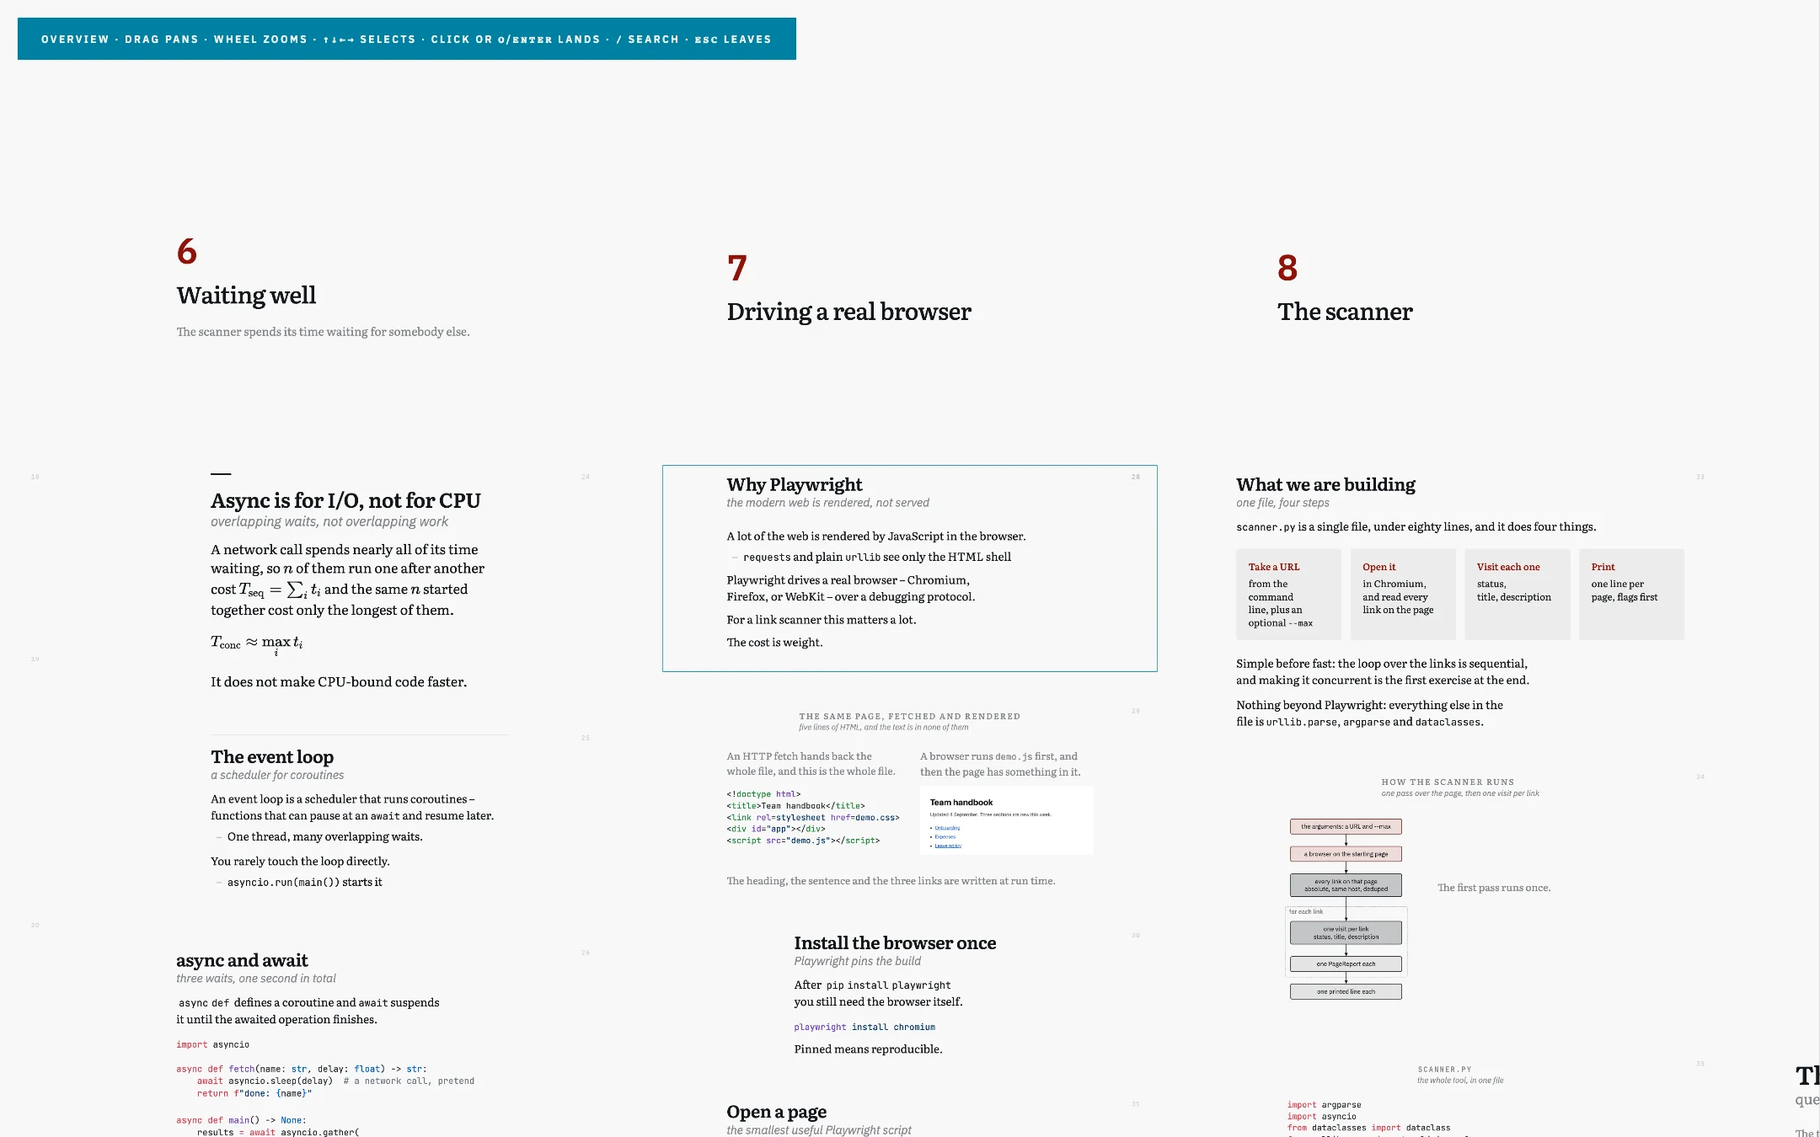
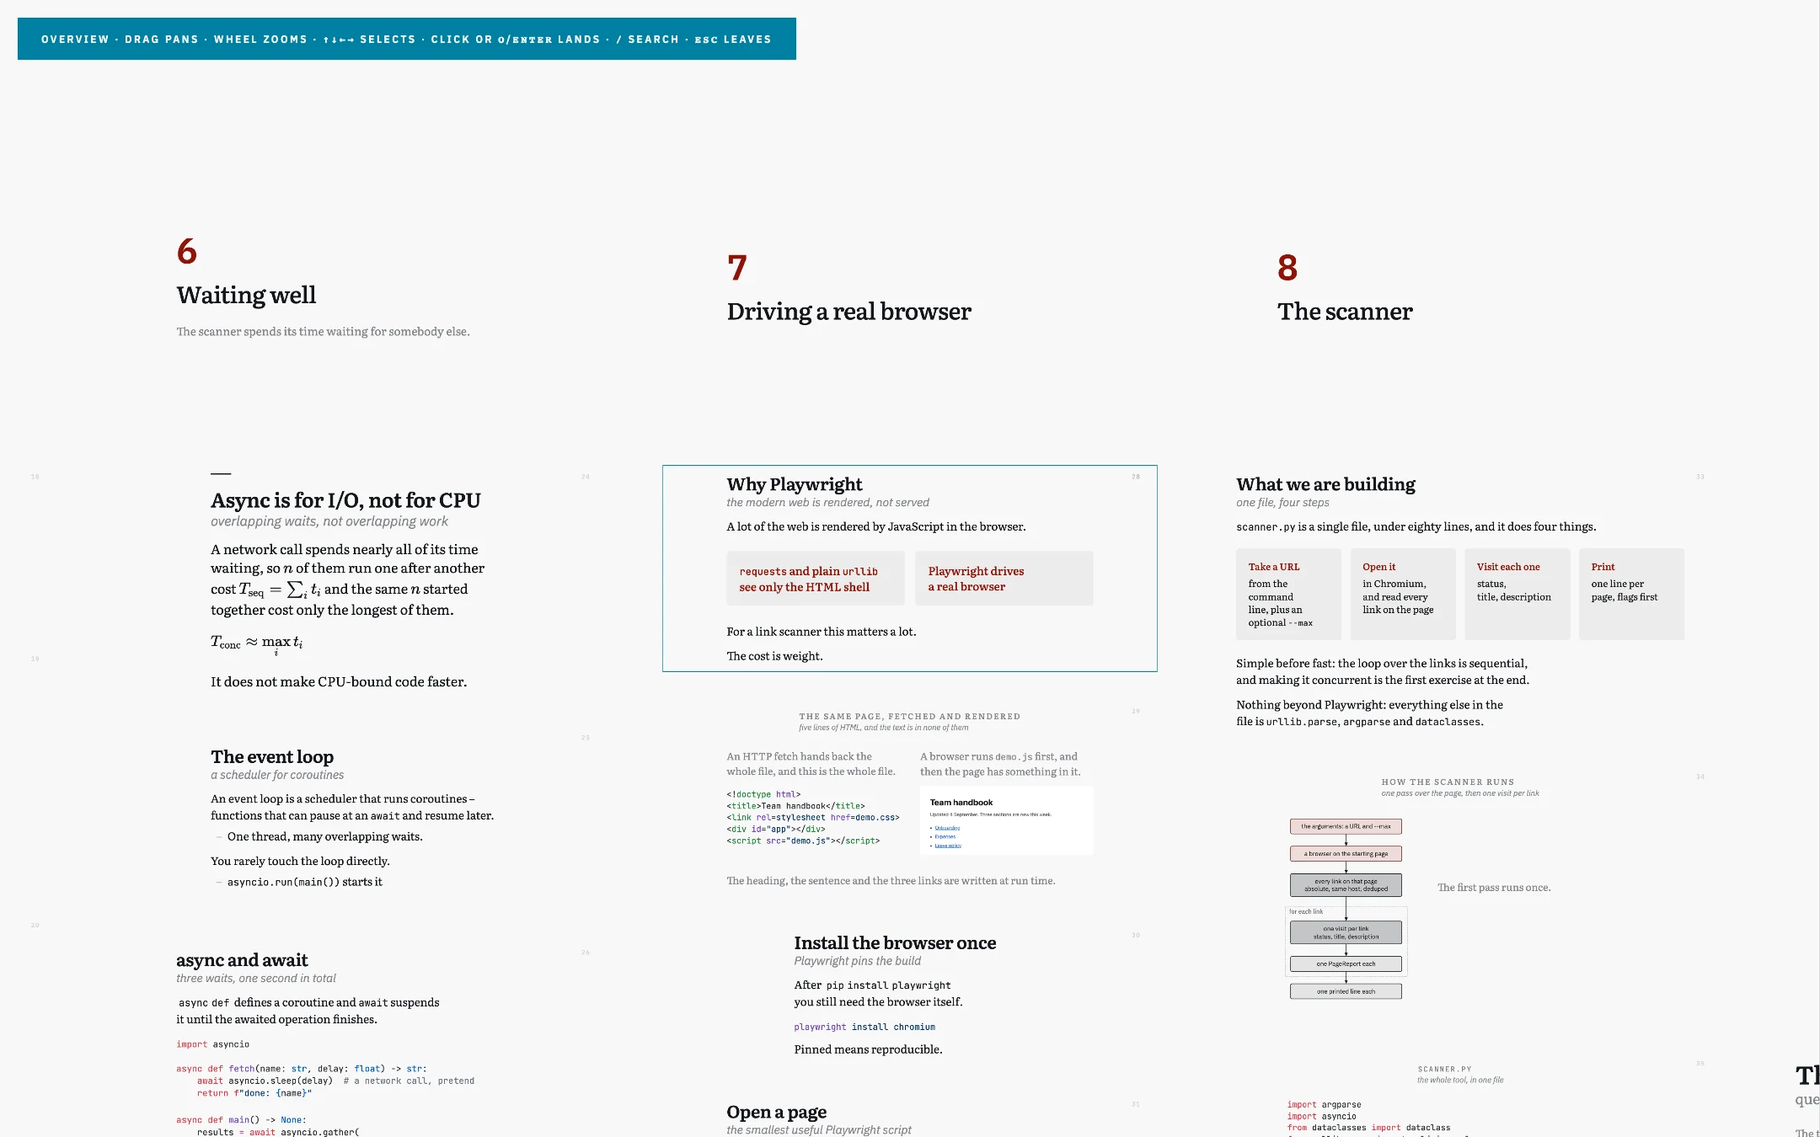
The landing page's source listing shows a slide whose structure is in its picture
The section beside the projected slide listed a source that opened with
`::: cols 2`, and the picture showed one column, because the projection
folds `::: cols` while the text is collapsed. python-intro's #why-playwright
now sets its two contrasting claims as `::: cards 2`: the bold heads are the
projection's text, the lines under them fold away there and stand in the
handout, and the two cards are side by side in every view. Same id, heading,
footnote, note and wording.

The heading says what the listing is ("This listing is the slide's entire
source" / "Dieses Listing ist die ganze Quelle der Folie"), the lede counts
lines rather than paragraphs, the listing matches the source (including the
whole speaker note), the cue explains the card row, and the alt texts
describe the new pictures in both languages. The landing set is re-shot.

Claude-Session: https://claude.ai/code/session_011ex4dRFb8TSZ1NDMNm82aV

diff --git a/docs/site/index.de.html b/docs/site/index.de.html
@@ -50,7 +50,7 @@
     <div class="stage-pair">
       <figure class="shot">
         <div class="bar"><b>was der Raum sieht</b></div>
-        <img src="../img/collapsed.webp" alt="Die Folie wie projiziert: Überschrift, Unterzeile, der erste Satz jedes Absatzes und die fett markierten Stellen, einspaltig.">
+        <img src="../img/collapsed.webp" alt="Die Folie wie projiziert: Überschrift, Unterzeile, ein Satz, zwei Karten nebeneinander, die nur ihre Kopfzeilen zeigen, und darunter der erste Satz der beiden Absätze.">
       </figure>
       <figure class="shot">
         <div class="bar">
@@ -59,19 +59,19 @@
             <span class="swap-label" aria-hidden="true">zeigen:</span>
             <button type="button" aria-pressed="true"
                     data-src="../img/full.webp"
-                    data-alt="Dieselbe Folie ohne Kürzung: alle vier Absätze vollständig, in zwei Spalten.">am Bildschirm</button>
+                    data-alt="Dieselbe Folie ohne Kürzung: unter der Kopfzeile jeder Karte wieder die eingerückten Zeilen, und die beiden Absätze unter den Karten vollständig.">am Bildschirm</button>
             <button type="button" aria-pressed="false"
                     data-src="../img/printed.webp"
-                    data-alt="Derselbe Text im Handout: ein Dokument in einer Serifenschrift, im Blocksatz mit Silbentrennung, die Randnotiz am Seitenrand.">gedruckt</button>
+                    data-alt="Derselbe Text im Handout: ein Dokument in einer Serifenschrift, die zwei Karten nebeneinander mit allen Zeilen, die Absätze im Blocksatz mit Silbentrennung, die Randnotiz am Seitenrand.">gedruckt</button>
           </span>
         </div>
-        <img src="../img/full.webp" alt="Dieselbe Folie ohne Kürzung: alle vier Absätze vollständig, in zwei Spalten.">
+        <img src="../img/full.webp" alt="Dieselbe Folie ohne Kürzung: unter der Kopfzeile jeder Karte wieder die eingerückten Zeilen, und die beiden Absätze unter den Karten vollständig.">
       </figure>
     </div>
    </div>
    <div class="said">
     <p class="cue">Eine Folie einer echten Vorlesung, zweimal. Einmal so, wie
-    der Raum die Folie sieht, und einmal mit denselben vier Absätzen vollständig.
+    der Raum die Folie sieht, und einmal mit demselben Text vollständig.
     <strong>Dazwischen liegt ein Tastendruck.</strong></p>
     <p class="cue">Mit dem Schalter in der Titelzeile des zweiten Bildes holt
     man anstelle des vollen Textes das gedruckte Handout hervor &ndash; eine
@@ -270,8 +270,8 @@
 
 <section class="band">
  <div class="wrap">
-  <h2>Das ist die ganze Quelle dieser Folie</h2>
-  <p class="lede">Neun Absätze Markdown, kein Editor und keine Vorlage. Ein
+  <h2>Dieses Listing ist die ganze Quelle der Folie</h2>
+  <p class="lede">Einunddreißig Zeilen Markdown, kein Editor und keine Vorlage. Ein
   <strong>Chunk</strong> ist eine Überschrift mit dem Text darunter, und ein
   Chunk wird zu einer Folie. Die Vorlesung dahinter ist echt: eine
   Python-Einführung aus 39 Chunks, auf Englisch.</p>
@@ -281,7 +281,7 @@
     <div class="stage">
       <figure class="shot">
         <div class="bar"><b>was der Raum sieht</b></div>
-        <img src="../img/collapsed.webp" alt="Die Folie, die dieses Listing erzeugt, wie projiziert: Überschrift, Unterzeile, der erste Satz jedes Absatzes und die fett markierten Stellen, einspaltig.">
+        <img src="../img/collapsed.webp" alt="Die Folie, die dieses Listing erzeugt, wie projiziert: Überschrift, Unterzeile, ein Satz, zwei Karten nebeneinander, die nur ihre Kopfzeilen zeigen, und darunter der erste Satz der beiden Absätze.">
       </figure>
     </div>
     <p class="cue">Auf das Fette achten. Das sind die Stellen, die die
@@ -289,28 +289,28 @@
     <code>&gt; note:</code> am Fuß bleibt auf dem eigenen Bildschirm.</p>
     <p class="cue">Die zwei Absätze, die mit &bdquo;&hellip;&ldquo; enden, sind
     nur auf dieser Webseite gekürzt, damit das Listing hineinpasst.
-    <code>::: cols 2</code> setzt die Absätze in zwei Spalten; die Projektion
-    zeigt sie einspaltig, solange der Text gekürzt ist, und das Handout behält
-    beide Spalten.</p>
+    <code>::: cards 2</code> setzt die zwei Punkte darunter als zwei Karten
+    nebeneinander, auf der Projektion wie im Handout. Auf der Projektion steht
+    von jeder Karte die fette Kopfzeile; die eingerückten Zeilen darunter
+    stehen im Handout und kommen mit <kbd>C</kbd> auf die Projektion.</p>
    </div>
 <pre><code><span class="t-head">## free: Why Playwright | the modern web is rendered, not served</span> <span class="t-punct">{.wide #why-playwright}</span>
 
-<span class="t-dir">::: cols 2</span>
-
 <span class="t-punct">**</span><span class="t-strong">A lot of the web is rendered by JavaScript in the browser.</span><span class="t-punct">**</span>
-<span class="t-punct">**</span><span class="t-strong"><span class="t-code">`requests`</span> and plain <span class="t-code">`urllib`</span> see only the HTML shell</span><span class="t-punct">**</span> &ndash; often just
-<span class="t-code">`&lt;div id="app"&gt;&lt;/div&gt;`</span> plus a pile of script tags. Useful text, links, and
-titles never arrive.
 
-<span class="t-punct">**</span><span class="t-strong">Playwright drives a real browser</span><span class="t-punct">**</span> &ndash; Chromium, Firefox, or WebKit &ndash; over a
-debugging protocol. The page renders, scripts execute, the DOM settles, and
-then you query it. You see what a human sees.
-
-<span class="t-punct">**</span><span class="t-strong">For a link scanner this matters a lot.</span><span class="t-punct">**</span> …
-
-<span class="t-punct">**</span><span class="t-strong">The cost is weight.</span><span class="t-punct">**</span> …
-
+<span class="t-dir">::: cards 2</span>
+<span class="t-punct">- **</span><span class="t-strong"><span class="t-code">`requests`</span> and plain <span class="t-code">`urllib`</span> see only the HTML shell</span><span class="t-punct">**</span>
+  <span class="t-punct">-</span> often just <span class="t-code">`&lt;div id="app"&gt;&lt;/div&gt;`</span> plus a pile of script tags
+  <span class="t-punct">-</span> the text, the links and the title are not in it
+<span class="t-punct">- **</span><span class="t-strong">Playwright drives a real browser</span><span class="t-punct">**</span>
+  <span class="t-punct">-</span> Chromium, Firefox, or WebKit, over a debugging protocol
+  <span class="t-punct">-</span> the page renders, scripts execute, the DOM settles, and then you query it
+  <span class="t-punct">-</span> you see what a human sees
 <span class="t-dir">:::</span>
+
+<span class="t-punct">**</span><span class="t-strong">For a link scanner this matters a lot.</span><span class="t-punct">**</span> Navigation on many real sites is …
+
+<span class="t-punct">**</span><span class="t-strong">The cost is weight.</span><span class="t-punct">**</span> A browser is a hundred megabytes of …
 
 <span class="t-dir">::: footnote</span>
 <span class="t-code">`requests`</span> is still the right tool for an API that answers in JSON. The
@@ -318,7 +318,8 @@ browser is for pages meant to be looked at.
 <span class="t-dir">:::</span>
 
 <span class="t-note">&gt; note: Show the difference live if the room is awake: open a JS-heavy site,
-&gt; curl it, and let them find the missing text themselves.</span></code></pre>
+&gt; curl it, and let them find the missing text themselves. Ninety seconds, and
+&gt; nobody asks again why a scanner needs a browser.</span></code></pre>
   </div>
  </div>
 </section>
@@ -476,14 +477,14 @@ browser is for pages meant to be looked at.
            <button type="button" aria-pressed="true"
                    data-src="../img/handout-plain.webp"
                    data-name="print.html"
-                   data-alt="Das Handout für die Studierenden, im Browser geöffnet: derselbe Chunk als fließender Blocksatz mit Silbentrennung, die Randnotiz am Seitenrand und unten links die Schaltfläche für das Inhaltsverzeichnis.">für die Studierenden</button>
+                   data-alt="Das Handout für die Studierenden, im Browser geöffnet: derselbe Chunk mit den zwei Karten nebeneinander und den Absätzen darunter im Blocksatz mit Silbentrennung, die Randnotiz am Seitenrand und unten links die Schaltfläche für das Inhaltsverzeichnis.">für die Studierenden</button>
            <button type="button" aria-pressed="false"
                    data-src="../img/handout.webp"
                    data-name="print-notes.html"
                    data-alt="Dasselbe Dokument mit der Sprechernotiz in einem getönten Block unter dem Chunk.">mit den Notizen</button>
          </span>
        </div>
-       <img src="../img/handout-plain.webp" alt="Das Handout für die Studierenden, im Browser geöffnet: derselbe Chunk als fließender Blocksatz mit Silbentrennung, die Randnotiz am Seitenrand und unten links die Schaltfläche für das Inhaltsverzeichnis.">
+       <img src="../img/handout-plain.webp" alt="Das Handout für die Studierenden, im Browser geöffnet: derselbe Chunk mit den zwei Karten nebeneinander und den Absätzen darunter im Blocksatz mit Silbentrennung, die Randnotiz am Seitenrand und unten links die Schaltfläche für das Inhaltsverzeichnis.">
      </figure>
    </div>
   </div>

diff --git a/docs/site/index.html b/docs/site/index.html
@@ -48,7 +48,7 @@
     <div class="stage-pair">
       <figure class="shot">
         <div class="bar"><b>what the room sees</b></div>
-        <img src="img/collapsed.webp" alt="The slide as projected: heading, sub-heading, the first sentence of each paragraph and the phrases marked bold, in one column.">
+        <img src="img/collapsed.webp" alt="The slide as projected: heading, sub-heading, one sentence, two cards side by side showing only their heads, and the first sentence of each of the two paragraphs under them.">
       </figure>
       <figure class="shot">
         <div class="bar">
@@ -57,19 +57,19 @@
             <span class="swap-label" aria-hidden="true">show:</span>
             <button type="button" aria-pressed="true"
                     data-src="img/full.webp"
-                    data-alt="The same slide with the shortening switched off: all four paragraphs in full, laid out in two columns.">on screen</button>
+                    data-alt="The same slide with the shortening switched off: the indented lines back under each card&rsquo;s head, and the two paragraphs under the cards in full.">on screen</button>
             <button type="button" aria-pressed="false"
                     data-src="img/printed.webp"
-                    data-alt="The same text in the handout: a document in a serif face, justified and hyphenated, with the margin note set as an aside.">in print</button>
+                    data-alt="The same text in the handout: a document in a serif face, the two cards side by side with all their lines, the paragraphs justified and hyphenated, and the margin note set as an aside.">in print</button>
           </span>
         </div>
-        <img src="img/full.webp" alt="The same slide with the shortening switched off: all four paragraphs in full, laid out in two columns.">
+        <img src="img/full.webp" alt="The same slide with the shortening switched off: the indented lines back under each card&rsquo;s head, and the two paragraphs under the cards in full.">
       </figure>
     </div>
    </div>
    <div class="said">
     <p class="cue">One slide of a real lecture, twice. Once as the room sees it,
-    and once with the same four paragraphs in full. <strong>One keypress
+    and once with the same text in full. <strong>One keypress
     separates them.</strong></p>
     <p class="cue">Flip the switch in the second picture&rsquo;s title bar and
     the full text becomes the printed handout &ndash; a different file, built
@@ -268,8 +268,8 @@
 
 <section class="band">
  <div class="wrap">
-  <h2>This is the whole source of that slide</h2>
-  <p class="lede">Nine paragraphs of Markdown, no editor and no template. A
+  <h2>This listing is the slide&rsquo;s entire source</h2>
+  <p class="lede">Thirty-one lines of Markdown, no editor and no template. A
   <strong>chunk</strong> is one heading with the text under it, and a chunk
   becomes one slide. The lecture the slide comes from is real: an introduction
   to Python in 39 chunks.</p>
@@ -279,35 +279,36 @@
     <div class="stage">
       <figure class="shot">
         <div class="bar"><b>what the room sees</b></div>
-        <img src="img/collapsed.webp" alt="The slide this listing produces, as projected: heading, sub-heading, the first sentence of each paragraph and the phrases marked bold, in one column.">
+        <img src="img/collapsed.webp" alt="The slide this listing produces, as projected: heading, sub-heading, one sentence, two cards side by side showing only their heads, and the first sentence of each of the two paragraphs under them.">
       </figure>
     </div>
     <p class="cue">Read the bold. Those are the phrases the projection keeps;
     the prose around them is what the handout keeps. The
     <code>&gt; note:</code> at the foot stays on your own screen.</p>
     <p class="cue">The two paragraphs ending in &ldquo;&hellip;&rdquo; are cut
-    short on this web page only, so that the listing fits. <code>::: cols 2</code>
-    sets the paragraphs in two columns; the projection shows them in one while
-    the text is shortened, and the handout keeps both columns.</p>
+    short on this web page only, so that the listing fits. <code>::: cards 2</code>
+    sets the two items under it as two cards side by side, on the projection
+    and in the handout. On the projection each card carries its bold head
+    only; the indented lines under it are in the handout, and <kbd>C</kbd>
+    brings them onto the projection.</p>
    </div>
 <pre><code><span class="t-head">## free: Why Playwright | the modern web is rendered, not served</span> <span class="t-punct">{.wide #why-playwright}</span>
 
-<span class="t-dir">::: cols 2</span>
-
 <span class="t-punct">**</span><span class="t-strong">A lot of the web is rendered by JavaScript in the browser.</span><span class="t-punct">**</span>
-<span class="t-punct">**</span><span class="t-strong"><span class="t-code">`requests`</span> and plain <span class="t-code">`urllib`</span> see only the HTML shell</span><span class="t-punct">**</span> &ndash; often just
-<span class="t-code">`&lt;div id="app"&gt;&lt;/div&gt;`</span> plus a pile of script tags. Useful text, links, and
-titles never arrive.
 
-<span class="t-punct">**</span><span class="t-strong">Playwright drives a real browser</span><span class="t-punct">**</span> &ndash; Chromium, Firefox, or WebKit &ndash; over a
-debugging protocol. The page renders, scripts execute, the DOM settles, and
-then you query it. You see what a human sees.
-
-<span class="t-punct">**</span><span class="t-strong">For a link scanner this matters a lot.</span><span class="t-punct">**</span> …
-
-<span class="t-punct">**</span><span class="t-strong">The cost is weight.</span><span class="t-punct">**</span> …
-
+<span class="t-dir">::: cards 2</span>
+<span class="t-punct">- **</span><span class="t-strong"><span class="t-code">`requests`</span> and plain <span class="t-code">`urllib`</span> see only the HTML shell</span><span class="t-punct">**</span>
+  <span class="t-punct">-</span> often just <span class="t-code">`&lt;div id="app"&gt;&lt;/div&gt;`</span> plus a pile of script tags
+  <span class="t-punct">-</span> the text, the links and the title are not in it
+<span class="t-punct">- **</span><span class="t-strong">Playwright drives a real browser</span><span class="t-punct">**</span>
+  <span class="t-punct">-</span> Chromium, Firefox, or WebKit, over a debugging protocol
+  <span class="t-punct">-</span> the page renders, scripts execute, the DOM settles, and then you query it
+  <span class="t-punct">-</span> you see what a human sees
 <span class="t-dir">:::</span>
+
+<span class="t-punct">**</span><span class="t-strong">For a link scanner this matters a lot.</span><span class="t-punct">**</span> Navigation on many real sites is …
+
+<span class="t-punct">**</span><span class="t-strong">The cost is weight.</span><span class="t-punct">**</span> A browser is a hundred megabytes of …
 
 <span class="t-dir">::: footnote</span>
 <span class="t-code">`requests`</span> is still the right tool for an API that answers in JSON. The
@@ -315,7 +316,8 @@ browser is for pages meant to be looked at.
 <span class="t-dir">:::</span>
 
 <span class="t-note">&gt; note: Show the difference live if the room is awake: open a JS-heavy site,
-&gt; curl it, and let them find the missing text themselves.</span></code></pre>
+&gt; curl it, and let them find the missing text themselves. Ninety seconds, and
+&gt; nobody asks again why a scanner needs a browser.</span></code></pre>
   </div>
  </div>
 </section>
@@ -469,14 +471,14 @@ browser is for pages meant to be looked at.
            <button type="button" aria-pressed="true"
                    data-src="img/handout-plain.webp"
                    data-name="print.html"
-                   data-alt="The handout for the students, open in a browser: the same chunk set as flowing justified prose with hyphenation, the margin note as an aside, and the Contents button in the lower left corner.">for the students</button>
+                   data-alt="The handout for the students, open in a browser: the same chunk with the two cards side by side and the paragraphs under them set as justified prose with hyphenation, the margin note as an aside, and the Contents button in the lower left corner.">for the students</button>
            <button type="button" aria-pressed="false"
                    data-src="img/handout.webp"
                    data-name="print-notes.html"
                    data-alt="The same document with the speaker note folded in under the chunk, in a tinted block.">with your notes</button>
          </span>
        </div>
-       <img src="img/handout-plain.webp" alt="The handout for the students, open in a browser: the same chunk set as flowing justified prose with hyphenation, the margin note as an aside, and the Contents button in the lower left corner.">
+       <img src="img/handout-plain.webp" alt="The handout for the students, open in a browser: the same chunk with the two cards side by side and the paragraphs under them set as justified prose with hyphenation, the margin note as an aside, and the Contents button in the lower left corner.">
      </figure>
    </div>
   </div>

diff --git a/lectures/python-intro/source.md b/lectures/python-intro/source.md
@@ -742,17 +742,26 @@ finish in $\max(1, 1, 1) = 1$ second.
 
 ## free: Why Playwright | the modern web is rendered, not served {.wide #why-playwright}
 
-::: cols 2
+**A lot of the web is rendered by JavaScript in the browser.**
 
-**A lot of the web is rendered by JavaScript in the browser.** **`requests` and plain `urllib` see only the HTML shell** – often just `<div id="app"></div>` plus a pile of script tags. The text, the links and the title are not in it.
-
-**Playwright drives a real browser** – Chromium, Firefox, or WebKit – over a debugging protocol. The page renders, scripts execute, the DOM settles, and then you query it. You see what a human sees.
-
-**For a link scanner this matters a lot.** Navigation on many real sites is built client-side: menus, footers, and even the main content are injected after load. A scanner that speaks HTTP and nothing else does not see that navigation.
-
-**The cost is weight.** A browser is a hundred megabytes of binaries and a few hundred of RAM per instance. For a lecture scanner that is fine; for a production crawler you would measure first.
-
+::: cards 2
+- **`requests` and plain `urllib` see only the HTML shell**
+  - often just `<div id="app"></div>` plus a pile of script tags
+  - the text, the links and the title are not in it
+- **Playwright drives a real browser**
+  - Chromium, Firefox, or WebKit, over a debugging protocol
+  - the page renders, scripts execute, the DOM settles, and then you query it
+  - you see what a human sees
 :::
+
+**For a link scanner this matters a lot.** Navigation on many real sites is
+built client-side: menus, footers, and even the main content are injected
+after load. A scanner that speaks HTTP and nothing else does not see that
+navigation.
+
+**The cost is weight.** A browser is a hundred megabytes of binaries and a few
+hundred of RAM per instance. For a lecture scanner that is fine; for a
+production crawler you would measure first.
 
 ::: footnote
 `requests` is still the right tool for an API that answers in JSON. The
